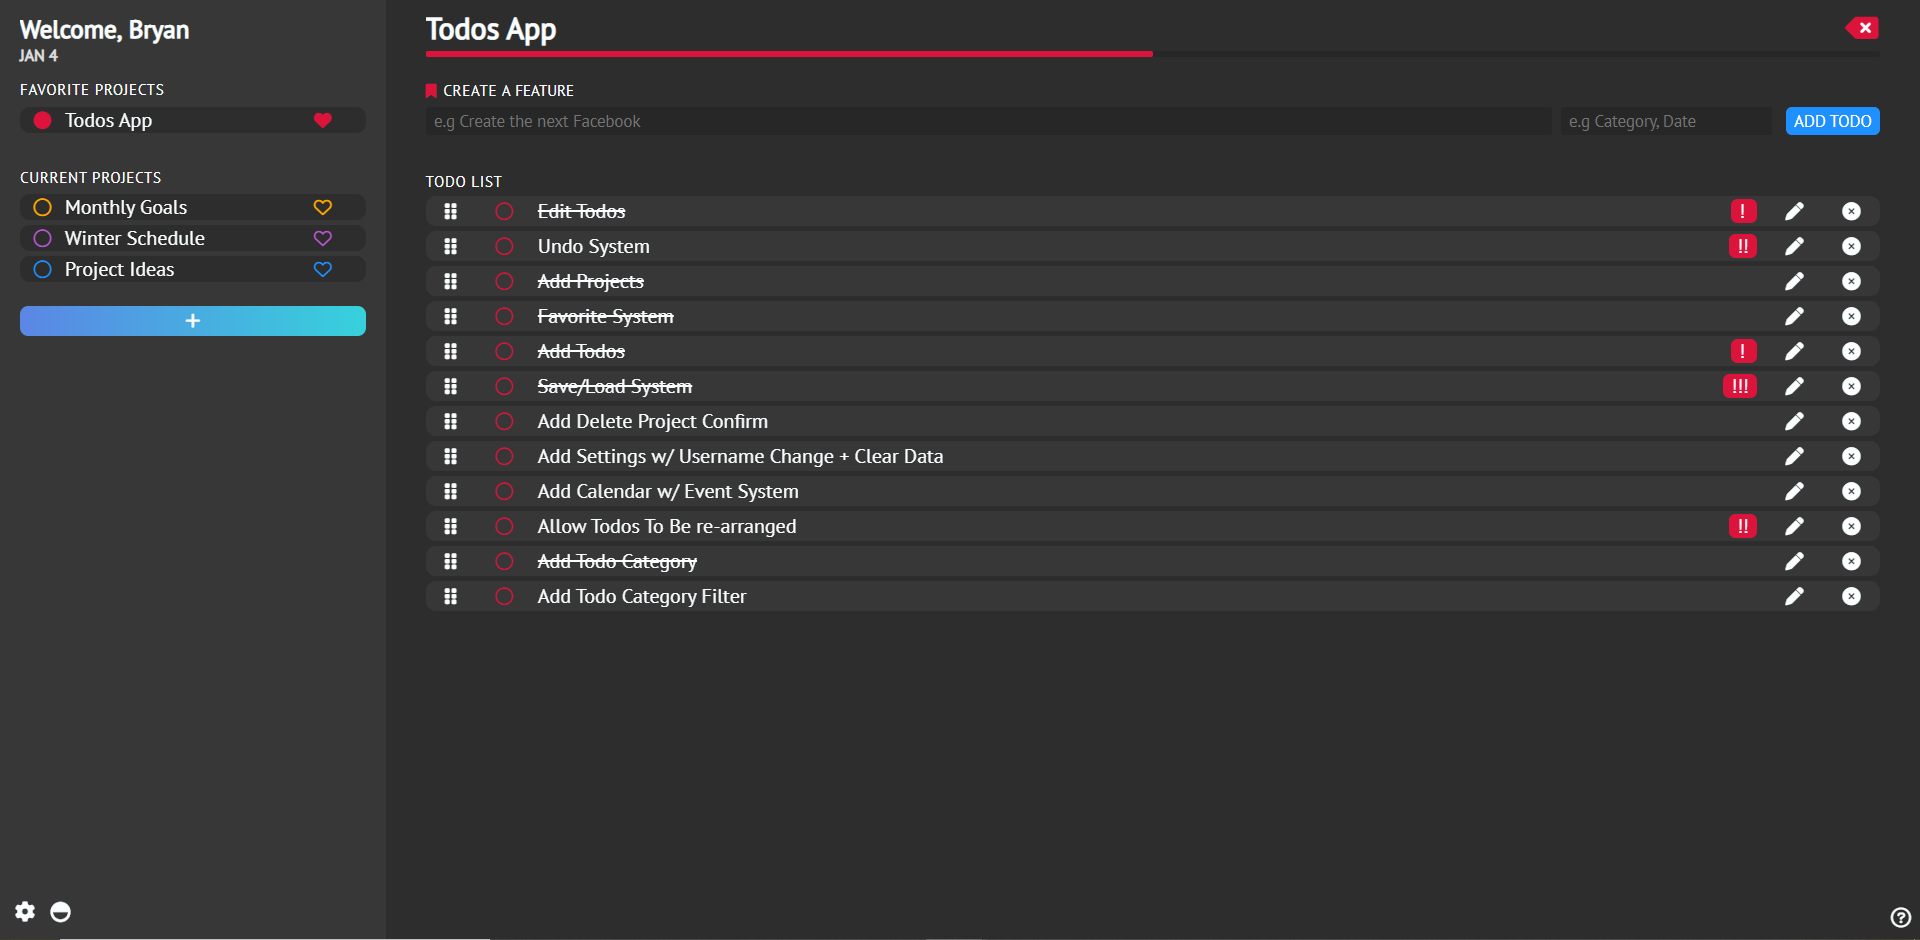
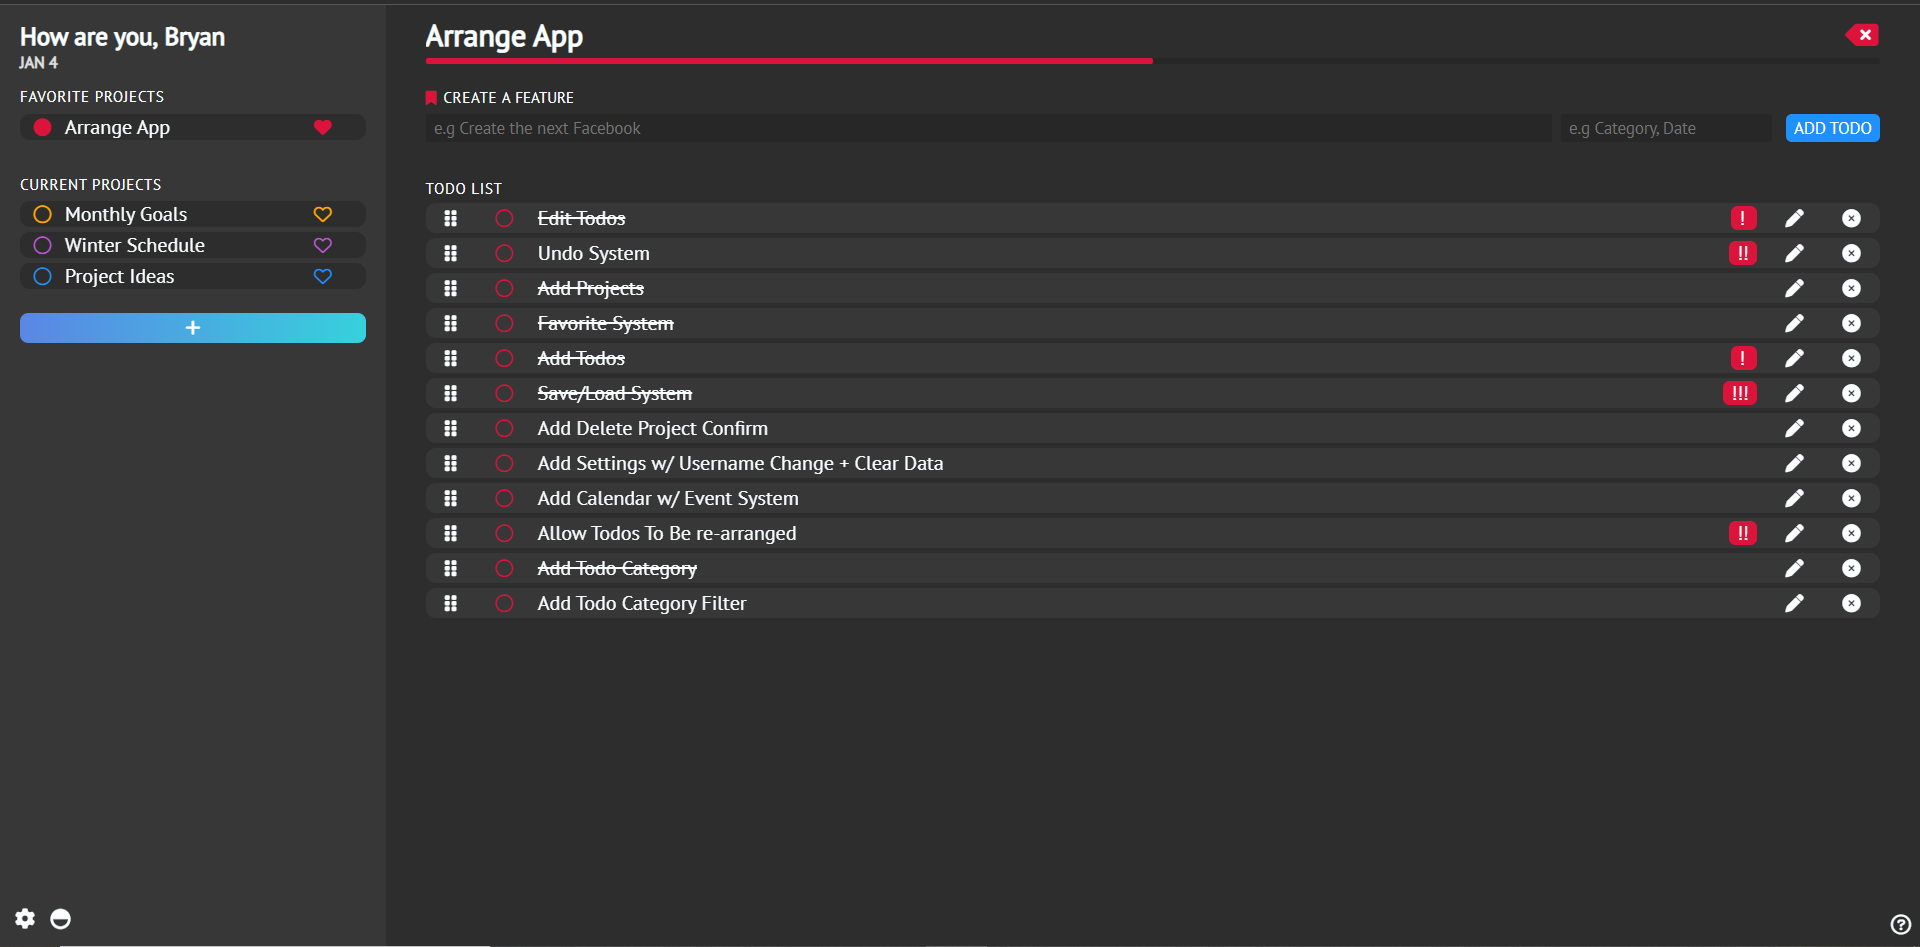
Updated Images & File Name)

diff --git a/app.js b/app.js
@@ -35,7 +35,7 @@ let todoInput = document.getElementById("todo-input");
 
 // Get Data from local storage
 function getData(){
-    data = JSON.parse(localStorage.getItem("todo-app"));
+    data = JSON.parse(localStorage.getItem("arrange-app"));
     if(data == null){
         data = {username:"User", projects:[], darktheme: true};
         saveData();
